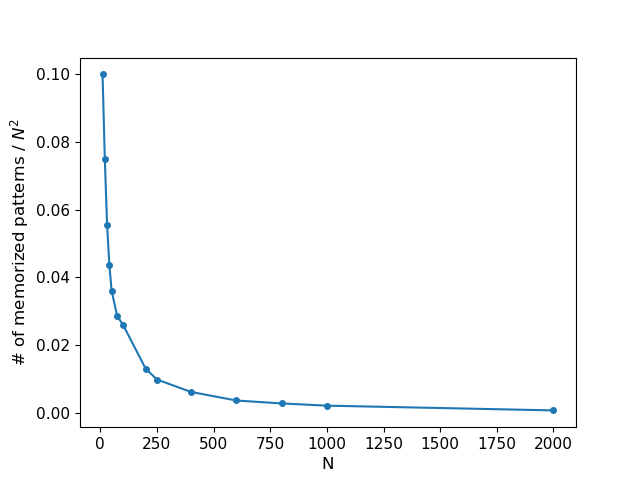
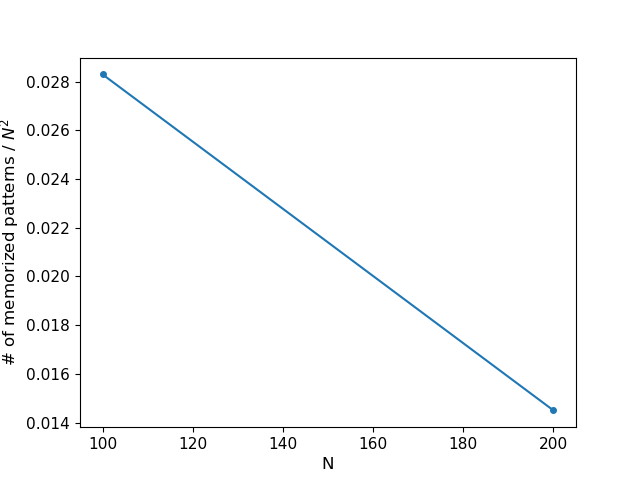
added new results

diff --git a/memoryPlot.py b/memoryPlot.py
@@ -6,27 +6,56 @@ Created on Sun Nov 26 17:12:11 2023
 """
 
 import matplotlib.pyplot as plt
+import sys
 
-# TODO: increase resolution for small N
 
+#  simple loss
+# at N200 i increased best_loss - avg_loss from < 10 ** -4 to < 10**-5
+# N =                  [10, 20, 30, 40, 50, 75 , 100, 200, 250, 400, 600, 800, 1000, 2000 ]
+# number_of_patterns = [10, 30, 50, 70, 90, 160, 260, 520, 610, 975, 1280, 1720, 2030, 2500 ]
+
+############### simple loss ############
 sparsity = 0.1
 
-# at N200 i increased best_loss - avg_loss from < 10 ** -4 to < 10**-5
-N =                  [10, 20, 30, 40, 50, 75 , 100, 200, 250, 400, 600, 800, 1000, 2000 ]
-# This number is taken from the biggest dataset_size where 100% of patterns are 
-# memorized
-# !!! 2500 is only 99.5% accurate, but 2400 also had 99.5%
-number_of_patterns = [10, 30, 50, 70, 90, 160, 260, 520, 610, 975, 1280, 1720, 2030, 2500 ]
+N = []
+number_of_patterns = []
+mean_of_patterns = []
+std = []
+dataset_size = []
+
+N.append(100)
+number_of_patterns.append(283)
+mean_of_patterns.append(243)
+std.append(23.95)
+dataset_size.append(300)
+
+N.append(200)
+number_of_patterns.append(580)
+mean_of_patterns.append(550)
+std.append(32)
+dataset_size.append(600)
+
+# N.append(300)
+# number_of_patterns.append()
+# mean_of_patterns.append()
+# std.append()
+# dataset_size.append()
+
+# N.append(400)
+# number_of_patterns.append()
+# mean_of_patterns.append()
+# std.append()
+# dataset_size.append()
 
 plt.close("all")
 plt.figure()  
 plt.plot(N, number_of_patterns, marker = 'o', ms = 4)
+plt.errorbar(N, mean_of_patterns, std, linestyle='None', marker = 'x', ms = 4)
 plt.title("", fontsize=14)
 plt.ylabel("# of memorzized patterns", fontsize=12)
 plt.xlabel("N", fontsize=12)
 plt.tick_params(axis='both', labelsize=11)
 plt.savefig("memoryPlot" + ".png")
-
 plt.figure()  
 plt.plot(N, [i / j for i, j in zip(number_of_patterns, N)], marker = 'o', ms = 4)
 plt.title("", fontsize=14)
@@ -34,7 +63,6 @@ plt.ylabel("# of memorized patterns / N", fontsize=12)
 plt.xlabel("N", fontsize=12)
 plt.tick_params(axis='both', labelsize=11)
 plt.savefig("slope" + ".png")
-
 plt.figure()  
 plt.plot(N, [i / j**2 for i, j in zip(number_of_patterns, N)], marker = 'o', ms = 4)
 plt.title("", fontsize=14)
@@ -43,38 +71,59 @@ plt.xlabel("N", fontsize=12)
 plt.tick_params(axis='both', labelsize=11)
 plt.savefig("mByN2" + ".png")
 
+# sys.exit()
 
+##### custom loss ###############
+tolerance = 0.1
+sparsity = 0.1
+N = []
+number_of_patterns = []
+mean_of_patterns = []
+std = []
+dataset_size = []
 
-#  custom loss!!!!!!!!
-# at N200 i increased best_loss - avg_loss from < 10 ** -4 to < 10**-5
-N =                  [10, 20, 30, 40, 50, 75 , 100, 200, 250, 400, 600, 800, 1000, 2000 ]
-# This number is taken from the biggest dataset_size where 100% of patterns are 
-# memorized
-# !!! 2500 is only 99.5% accurate, but 2400 also had 99.5%
-number_of_patterns = [??, 29 (mit 40) ]
+N.append(100)
+number_of_patterns.append(337)
+mean_of_patterns.append(305)
+std.append(24)
+dataset_size.append(350)
 
-plt.close("all")
+N.append(200)
+number_of_patterns.append(653)
+mean_of_patterns.append(0)
+std.append(5)
+
+# N.append(300)
+# number_of_patterns.append()
+# mean_of_patterns.append()
+# std.append()
+# dataset_size.append()
+
+# N.append(400)
+# number_of_patterns.append()
+# mean_of_patterns.append()
+# std.append()
+# dataset_size.append()
+
 plt.figure()  
 plt.plot(N, number_of_patterns, marker = 'o', ms = 4)
+plt.errorbar(N, mean_of_patterns, std, linestyle='None', marker = 'x', ms = 4)
 plt.title("", fontsize=14)
 plt.ylabel("# of memorzized patterns", fontsize=12)
 plt.xlabel("N", fontsize=12)
 plt.tick_params(axis='both', labelsize=11)
-plt.savefig("memoryPlot" + ".png")
-
+plt.savefig("memoryPlotCustom" + ".png")
 plt.figure()  
 plt.plot(N, [i / j for i, j in zip(number_of_patterns, N)], marker = 'o', ms = 4)
 plt.title("", fontsize=14)
 plt.ylabel("# of memorized patterns / N", fontsize=12)
 plt.xlabel("N", fontsize=12)
 plt.tick_params(axis='both', labelsize=11)
-plt.savefig("slope" + ".png")
-
+plt.savefig("slopeCustom" + ".png")
 plt.figure()  
 plt.plot(N, [i / j**2 for i, j in zip(number_of_patterns, N)], marker = 'o', ms = 4)
 plt.title("", fontsize=14)
 plt.ylabel("# of memorized patterns / $N^2$", fontsize=12)
 plt.xlabel("N", fontsize=12)
 plt.tick_params(axis='both', labelsize=11)
-plt.savefig("mByN2" + ".png")
-
+plt.savefig("mByN2Custom" + ".png")
